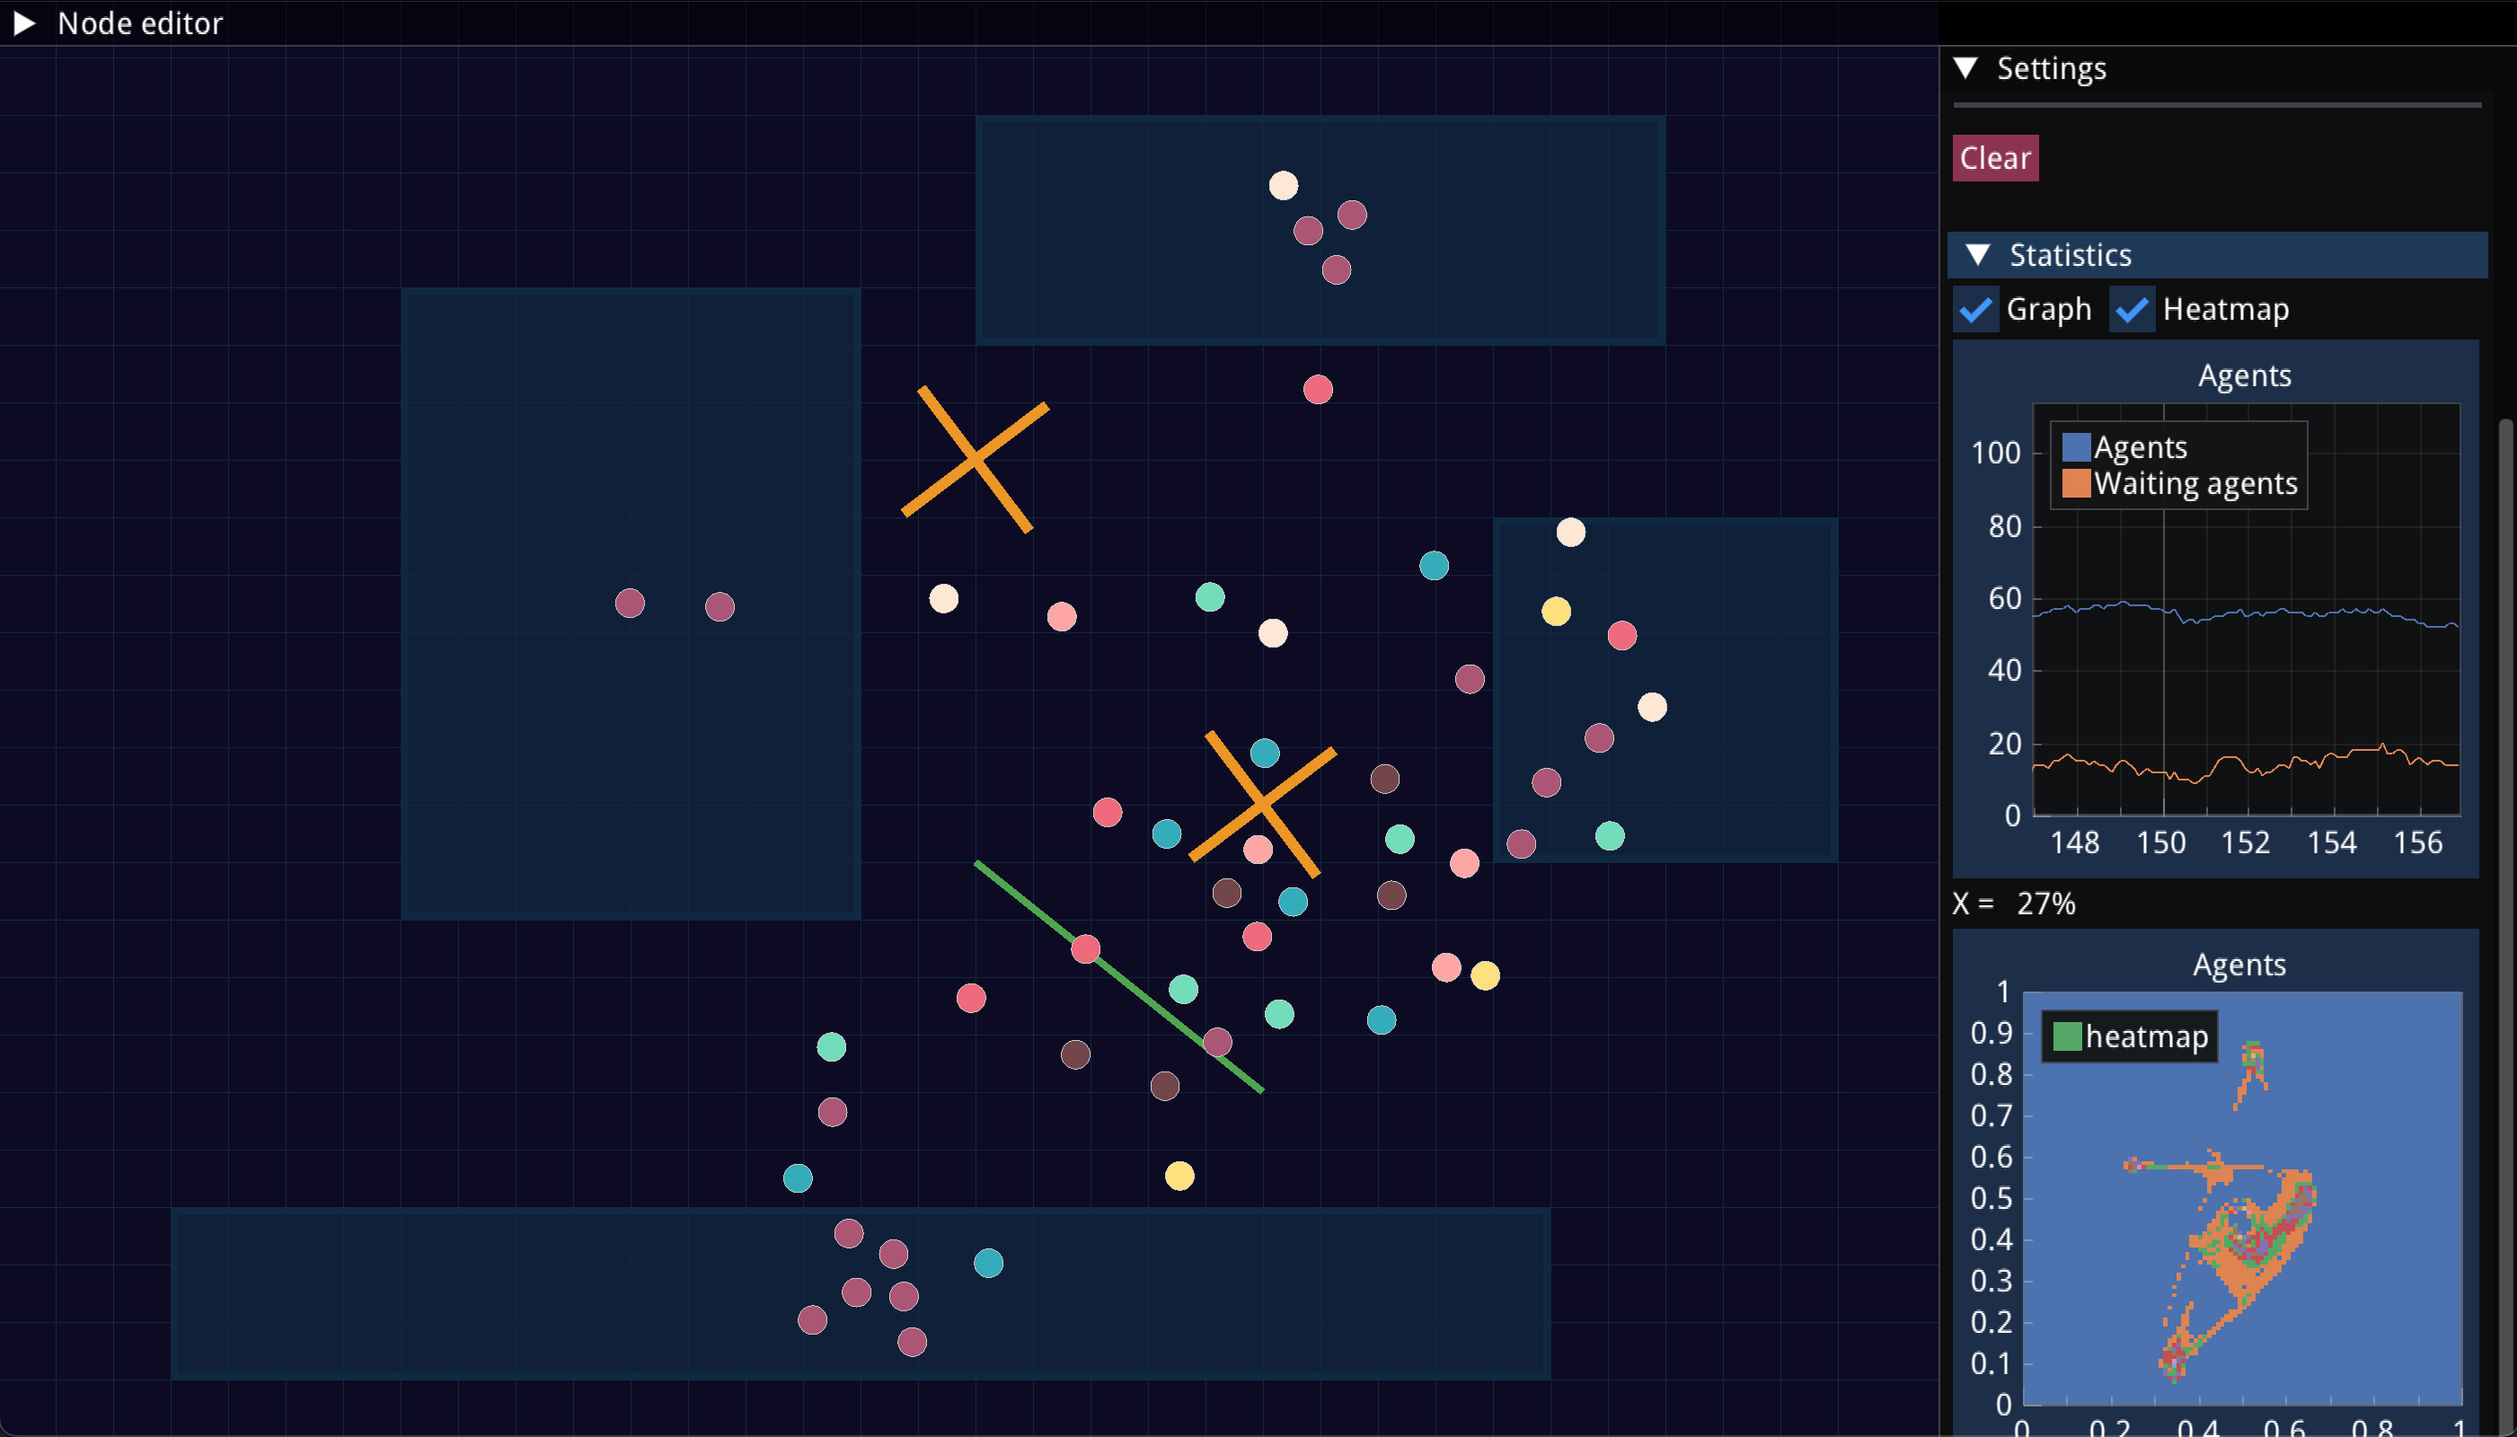
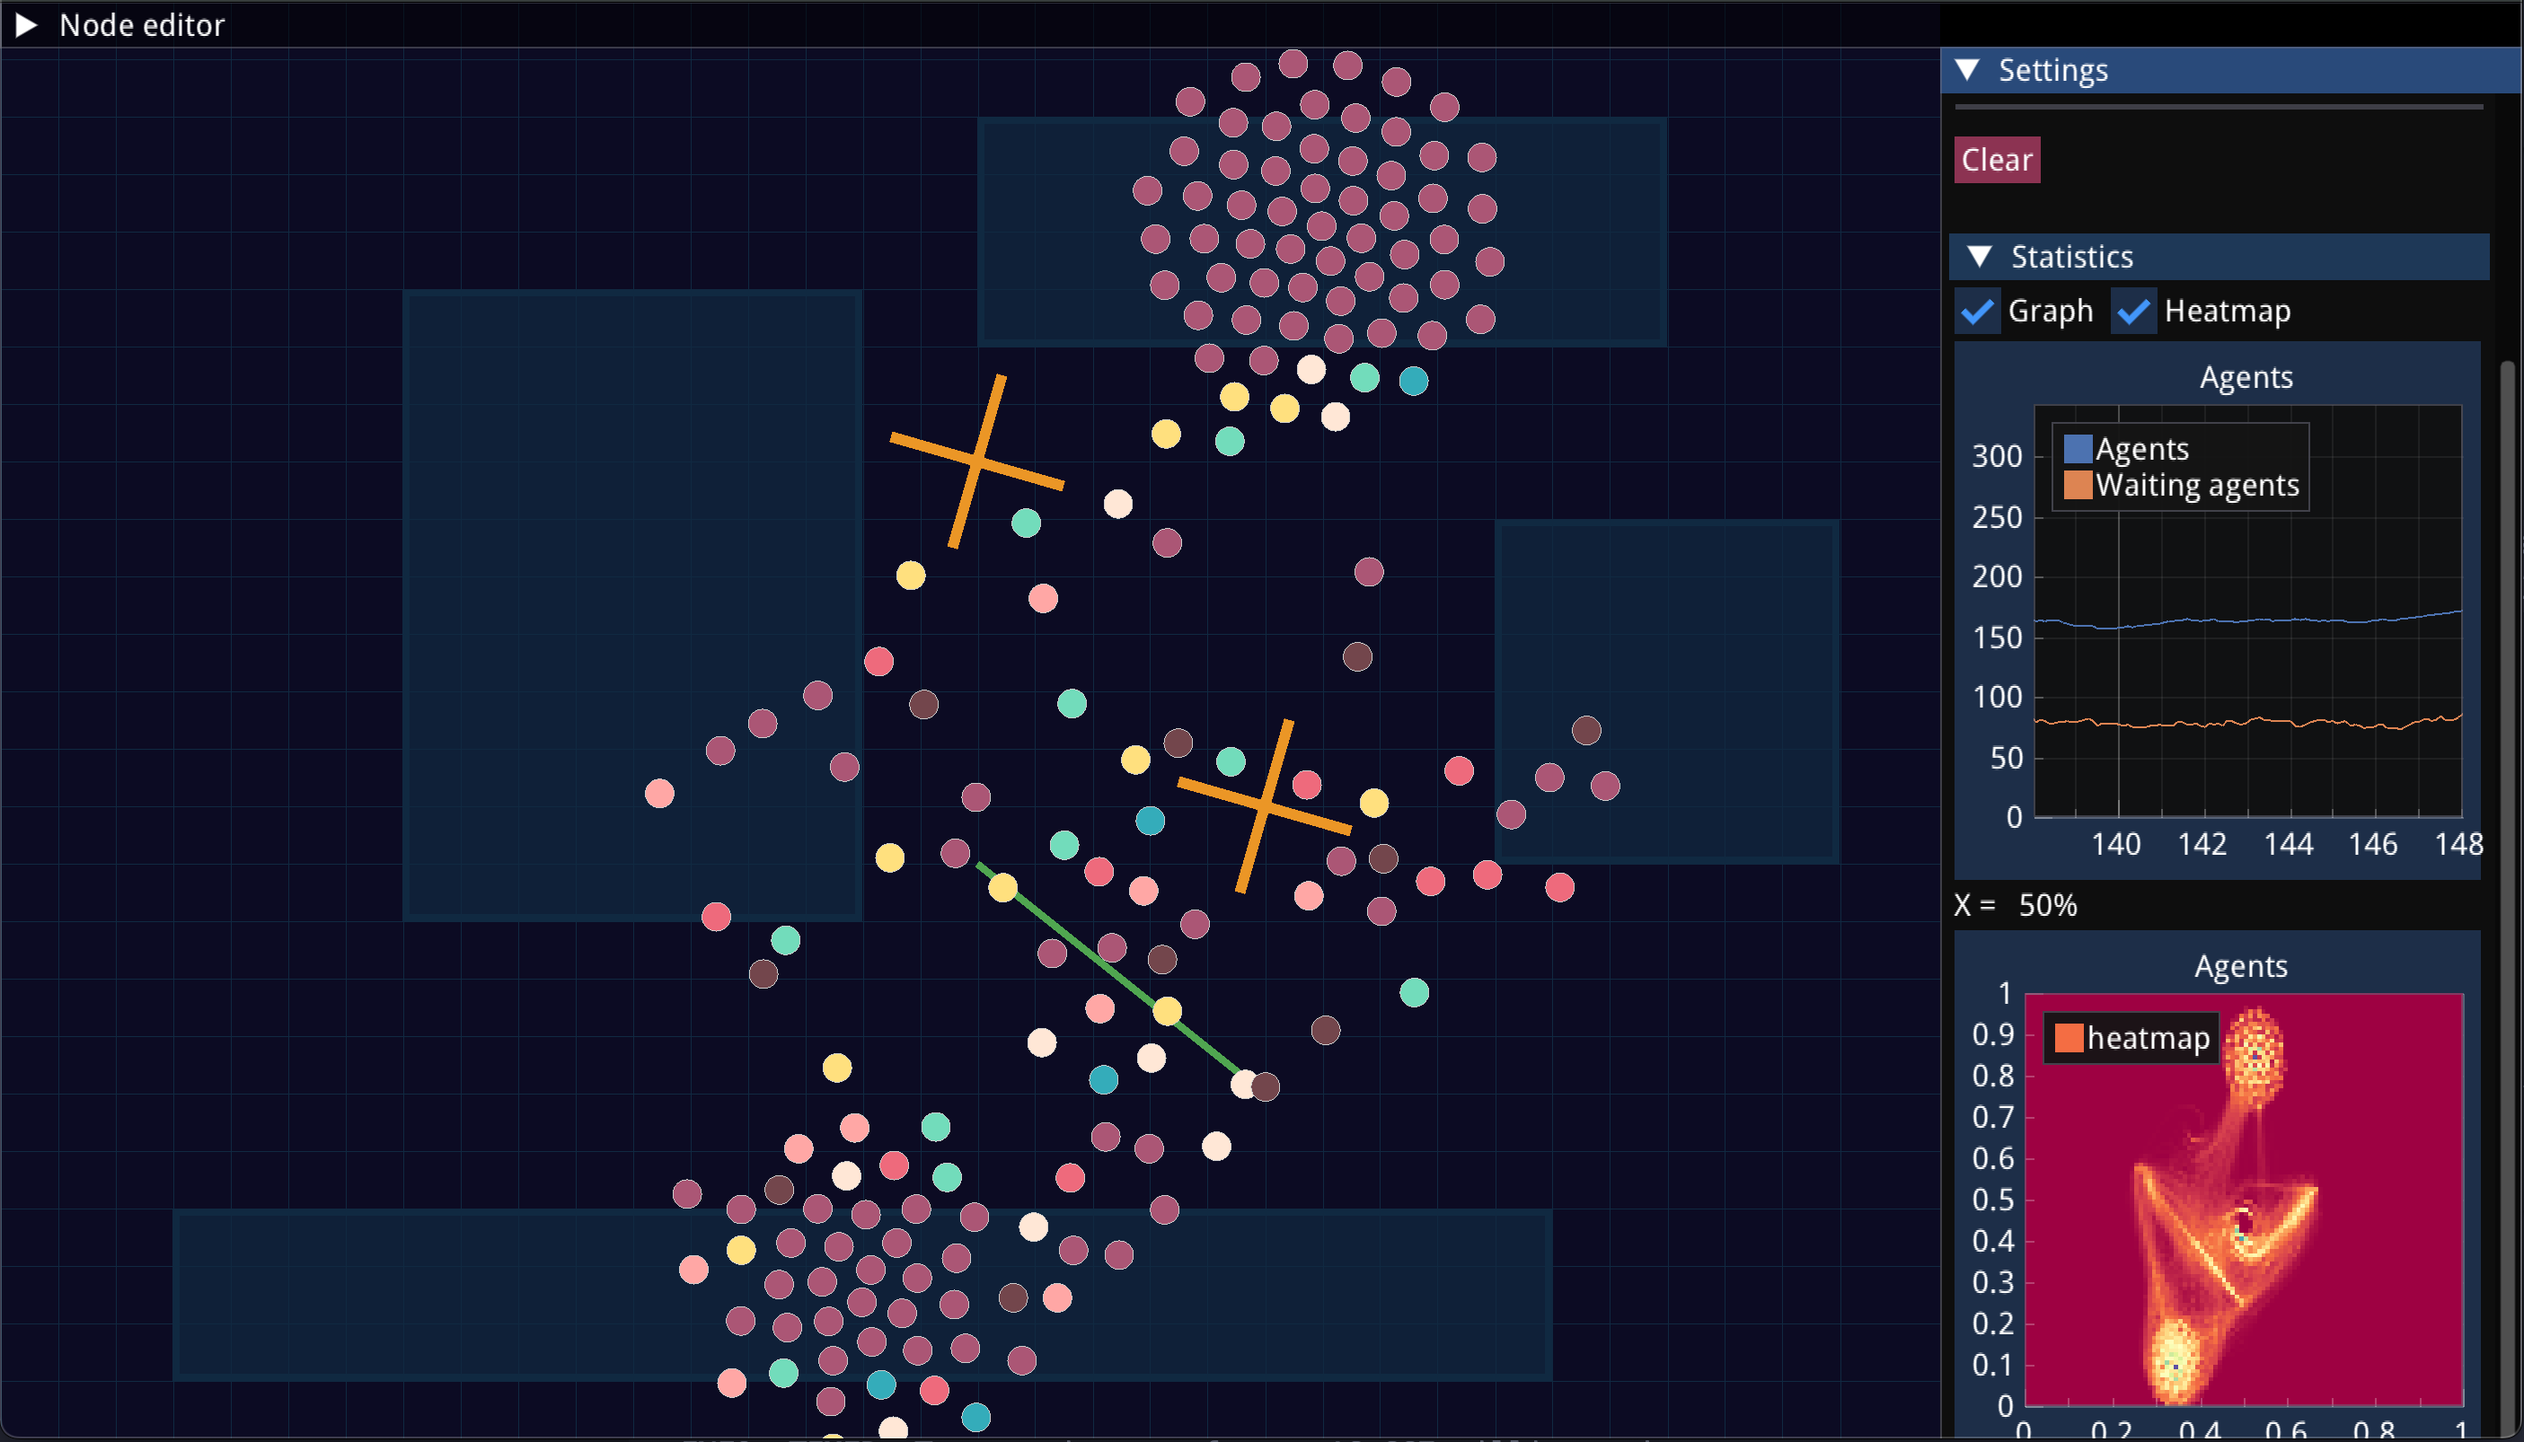
heatmap color palette

diff --git a/vendor/implot/src/implot_zig.cpp b/vendor/implot/src/implot_zig.cpp
@@ -52,4 +52,120 @@ void ImPlot_PlotHeatmapS32Ptr(const char* label_id, const int* values, int rows,
     ImPlot::PlotHeatmap(label_id, values, rows, cols, scale_min, scale_max, fmt, ImPlotPoint(bounds_min_x, bounds_min_y), ImPlotPoint(bounds_max_x, bounds_max_y), flags);
 }
 
+// Colormap management
+ImPlotColormap ImPlot_AddColormapVec4(const char* name, const ImVec4* cols, int size, bool qual) {
+    return ImPlot::AddColormap(name, cols, size, qual);
+}
+
+ImPlotColormap ImPlot_AddColormapU32(const char* name, const unsigned int* cols, int size, bool qual) {
+    return ImPlot::AddColormap(name, cols, size, qual);
+}
+
+int ImPlot_GetColormapCount() {
+    return ImPlot::GetColormapCount();
+}
+
+const char* ImPlot_GetColormapName(ImPlotColormap cmap) {
+    return ImPlot::GetColormapName(cmap);
+}
+
+ImPlotColormap ImPlot_GetColormapIndex(const char* name) {
+    return ImPlot::GetColormapIndex(name);
+}
+
+void ImPlot_PushColormap(ImPlotColormap cmap) {
+    ImPlot::PushColormap(cmap);
+}
+
+void ImPlot_PushColormapName(const char* name) {
+    ImPlot::PushColormap(name);
+}
+
+void ImPlot_PopColormap(int count) {
+    ImPlot::PopColormap(count);
+}
+
+ImVec4 ImPlot_NextColormapColor() {
+    return ImPlot::NextColormapColor();
+}
+
+int ImPlot_GetColormapSize(ImPlotColormap cmap) {
+    return ImPlot::GetColormapSize(cmap);
+}
+
+ImVec4 ImPlot_GetColormapColor(int idx, ImPlotColormap cmap) {
+    return ImPlot::GetColormapColor(idx, cmap);
+}
+
+ImVec4 ImPlot_SampleColormap(float t, ImPlotColormap cmap) {
+    return ImPlot::SampleColormap(t, cmap);
+}
+
+void ImPlot_ColormapScale(const char* label, double scale_min, double scale_max, float width, float height, const char* format, ImPlotColormapScaleFlags flags, ImPlotColormap cmap) {
+    ImPlot::ColormapScale(label, scale_min, scale_max, ImVec2(width, height), format, flags, cmap);
+}
+
+bool ImPlot_ColormapSlider(const char* label, float* t, ImVec4* out, const char* format, ImPlotColormap cmap) {
+    return ImPlot::ColormapSlider(label, t, out, format, cmap);
+}
+
+bool ImPlot_ColormapButton(const char* label, float width, float height, ImPlotColormap cmap) {
+    return ImPlot::ColormapButton(label, ImVec2(width, height), cmap);
+}
+
+void ImPlot_BustColorCache(const char* plot_title_id) {
+    ImPlot::BustColorCache(plot_title_id);
+}
+
+// Style color management
+void ImPlot_PushStyleColorU32(ImPlotCol idx, unsigned int col) {
+    ImPlot::PushStyleColor(idx, col);
+}
+
+void ImPlot_PushStyleColorVec4(ImPlotCol idx, float r, float g, float b, float a) {
+    ImPlot::PushStyleColor(idx, ImVec4(r, g, b, a));
+}
+
+void ImPlot_PopStyleColor(int count) {
+    ImPlot::PopStyleColor(count);
+}
+
+// Style access
+ImPlotStyle* ImPlot_GetStyle() {
+    return &ImPlot::GetStyle();
+}
+
+void ImPlot_StyleColorsAuto() {
+    ImPlot::StyleColorsAuto();
+}
+
+void ImPlot_StyleColorsClassic() {
+    ImPlot::StyleColorsClassic();
+}
+
+void ImPlot_StyleColorsDark() {
+    ImPlot::StyleColorsDark();
+}
+
+void ImPlot_StyleColorsLight() {
+    ImPlot::StyleColorsLight();
+}
+
+// Style getters/setters
+ImVec4 ImPlot_GetStyleColorVec4(ImPlotCol idx) {
+    return ImPlot::GetStyle().Colors[idx];
+}
+
+void ImPlot_SetStyleColorVec4(ImPlotCol idx, float r, float g, float b, float a) {
+    ImPlot::GetStyle().Colors[idx] = ImVec4(r, g, b, a);
+}
+
+int ImPlot_GetStyleColormap() {
+    return ImPlot::GetStyle().Colormap;
+}
+
+void ImPlot_SetStyleColormap(ImPlotColormap cmap) {
+    ImPlot::GetStyle().Colormap = cmap;
+}
+
 } // extern "C"
